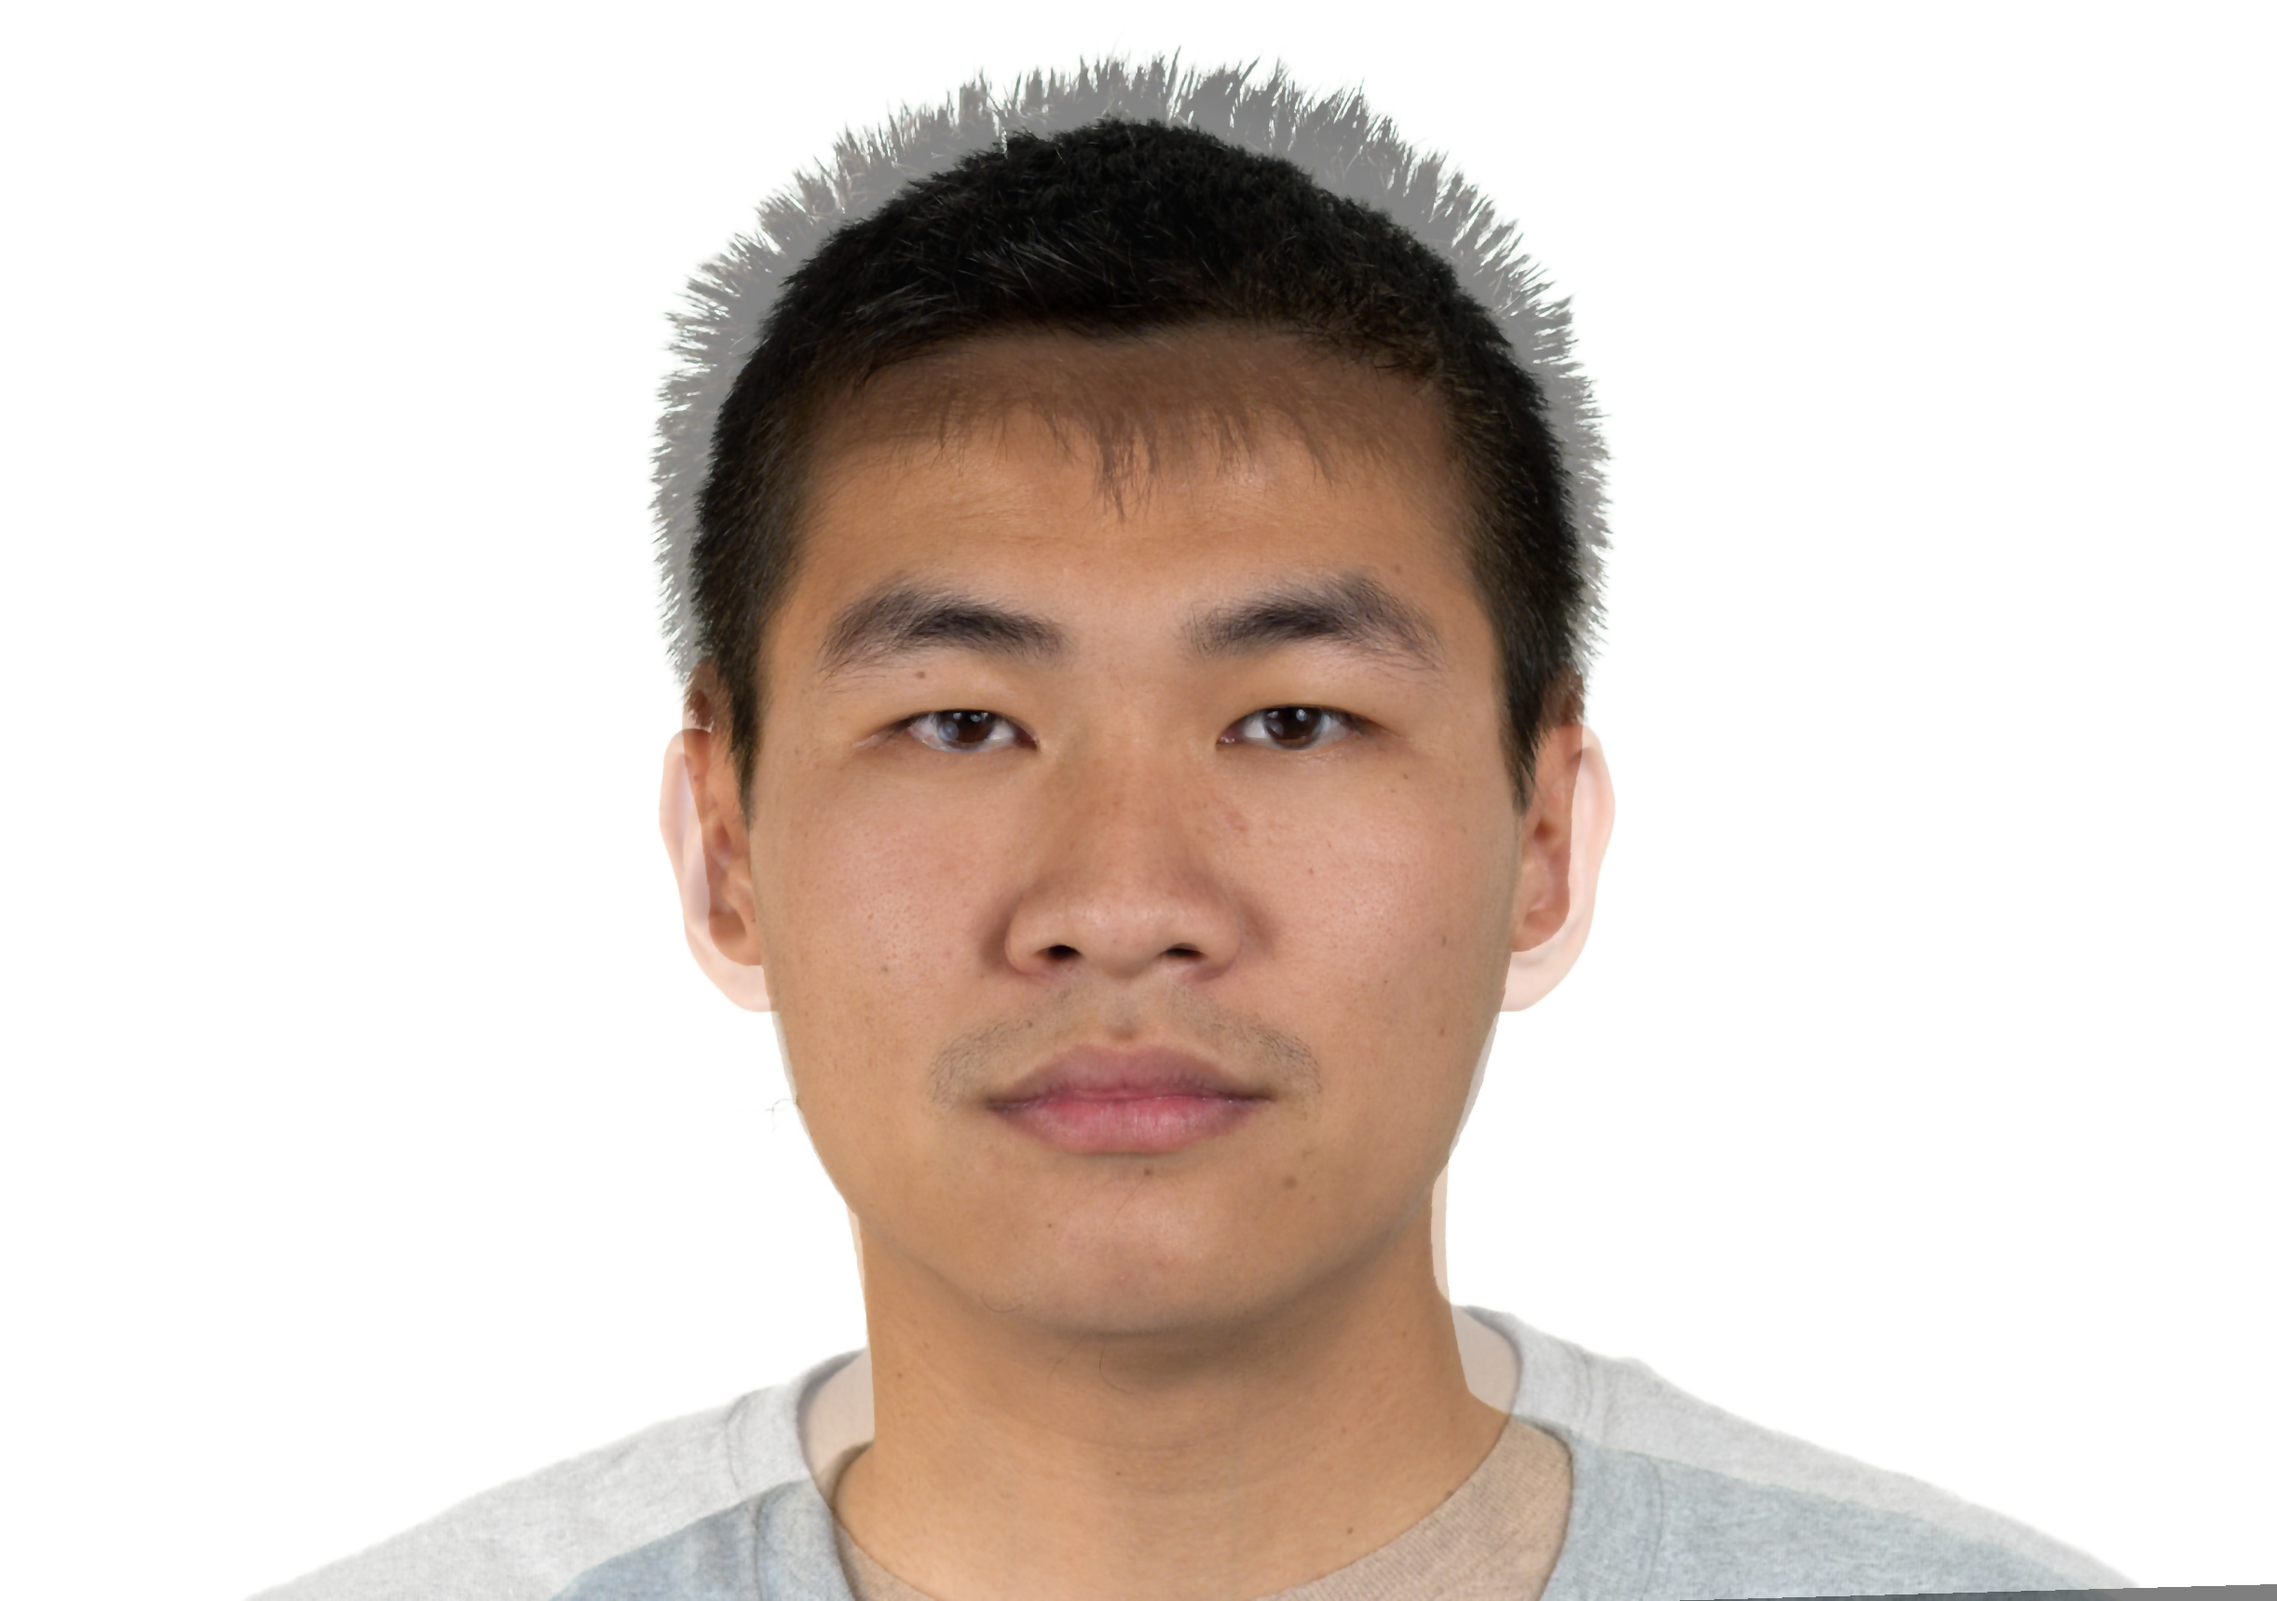
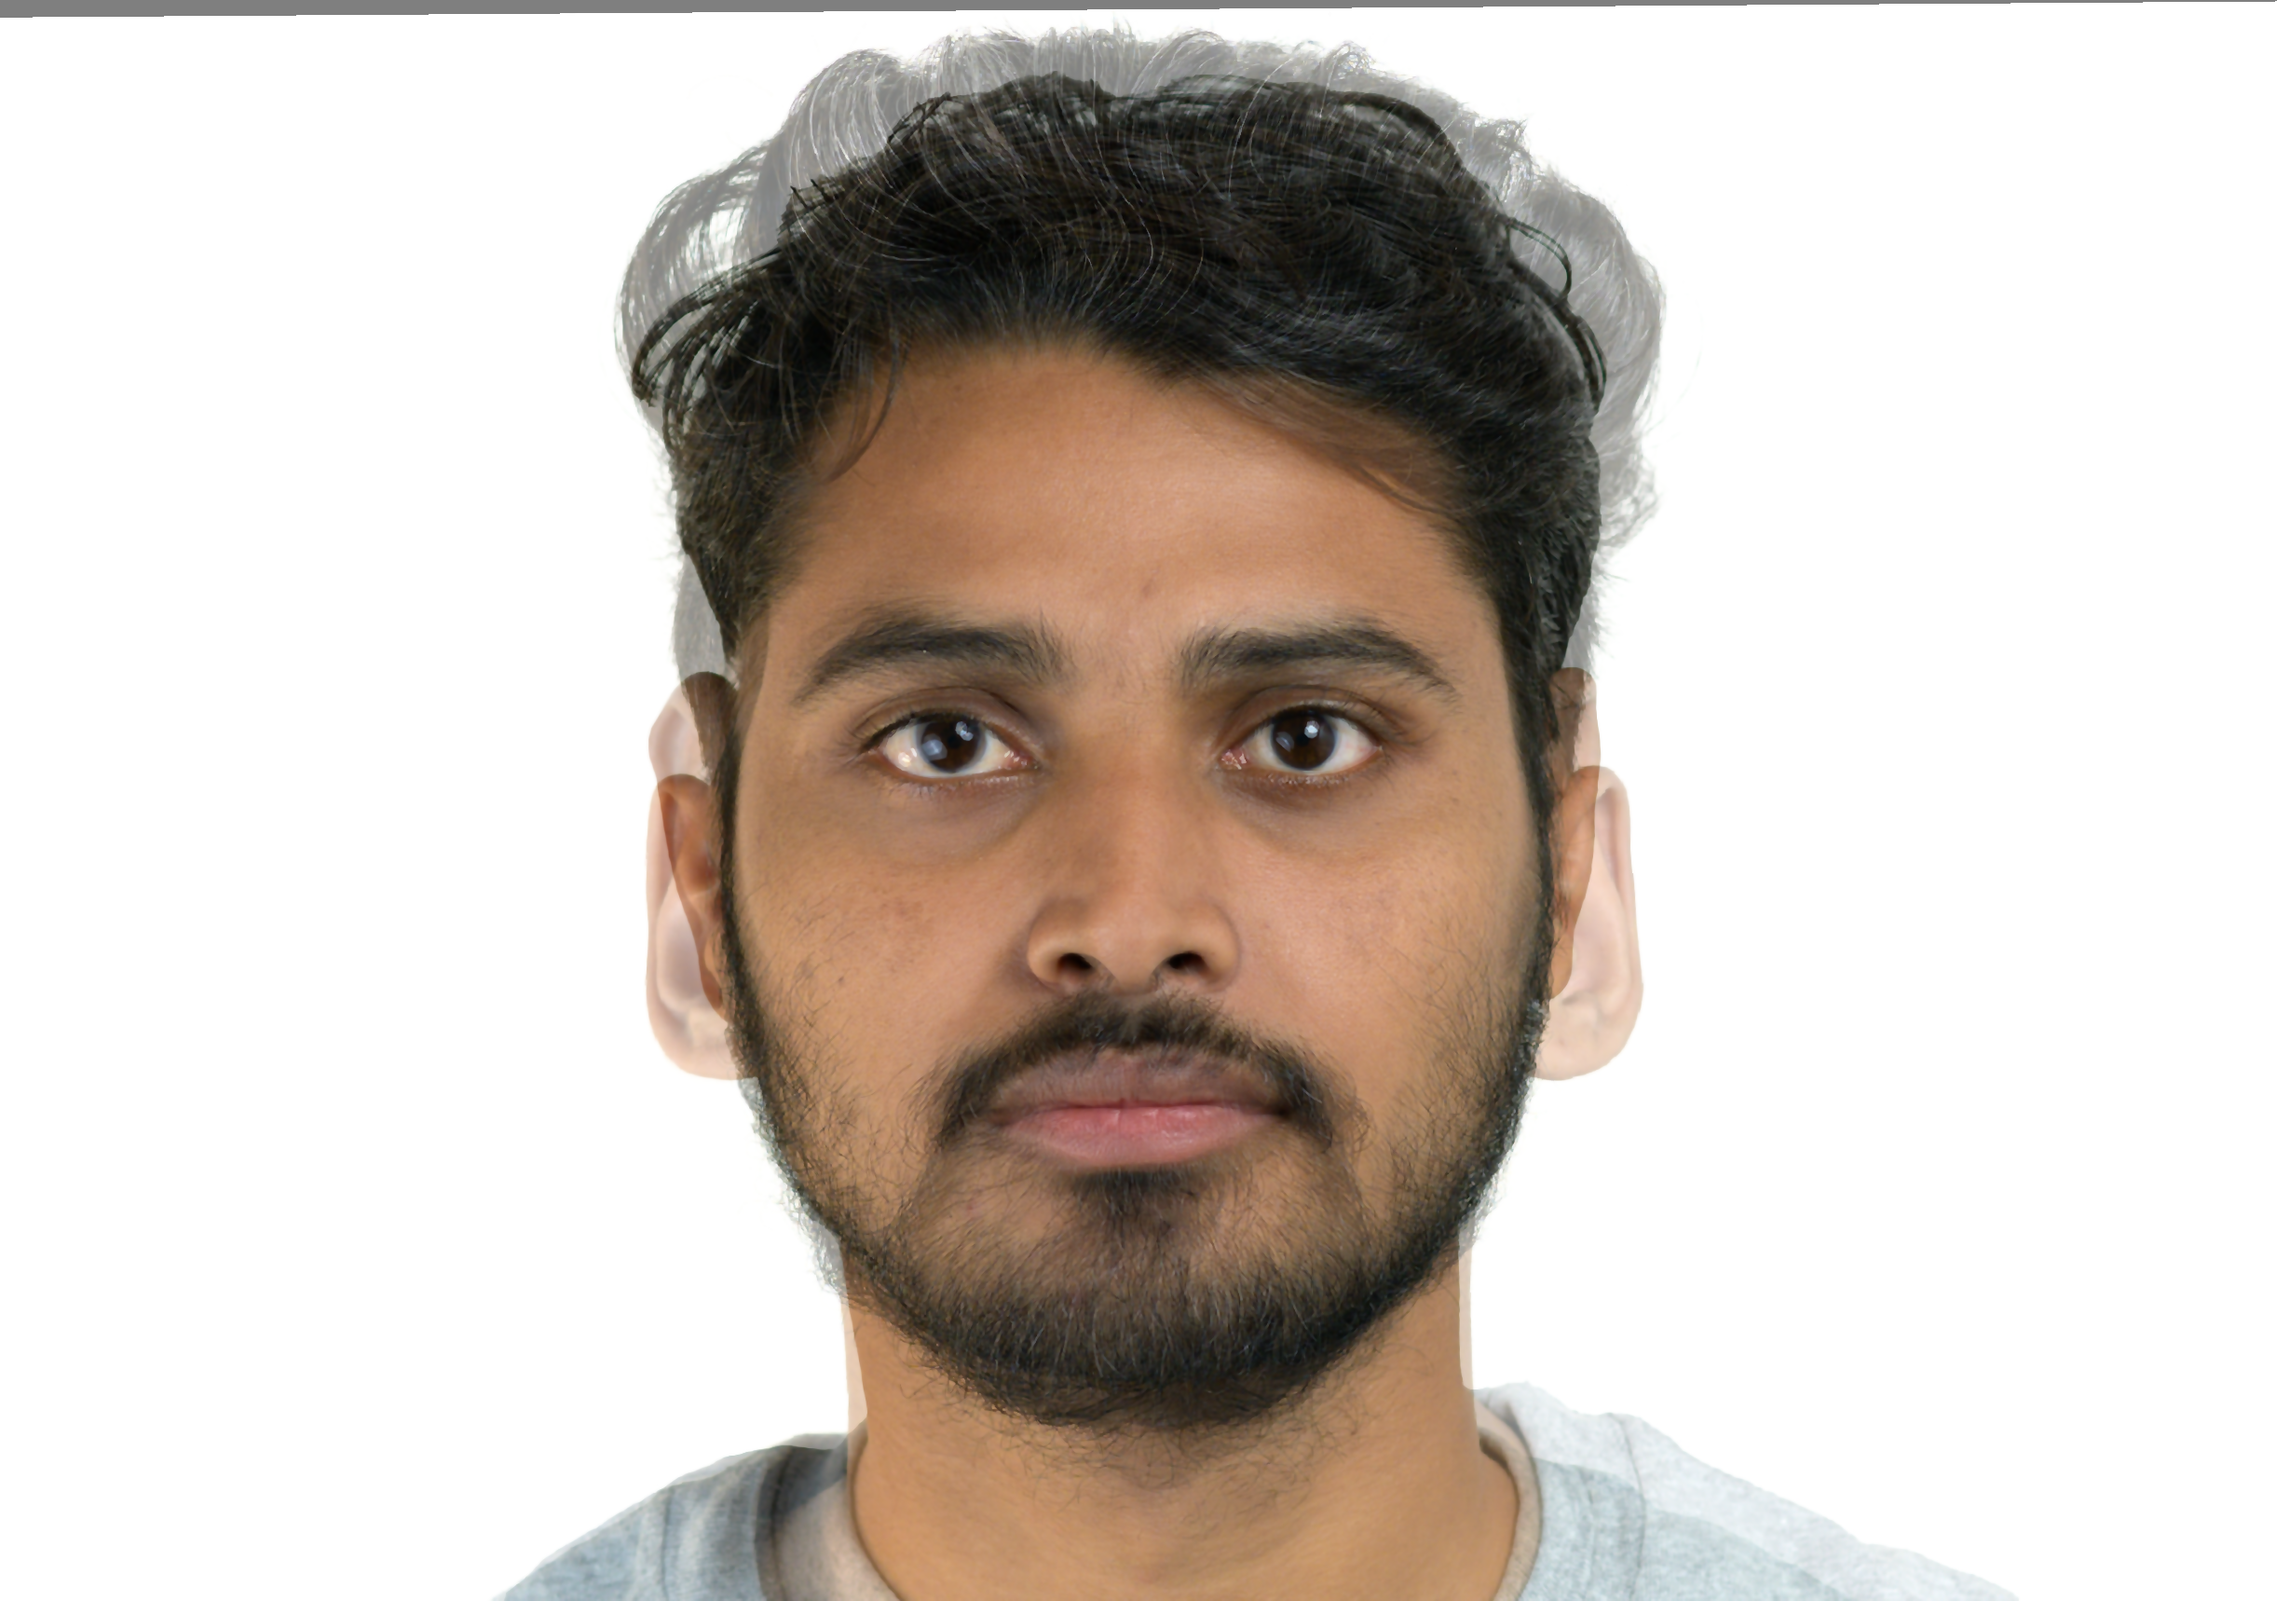
Update

Changed region(s): [[0.0, 0.0, 1.0, 1.0]]

diff --git a/FaceMorphing/FaceMorph.py b/FaceMorphing/FaceMorph.py
@@ -6,8 +6,8 @@ from scipy.spatial import Delaunay
 
 ShapePredictor = "shape_predictor_68_face_landmarks.dat"
 
-imagePathA = "/Users/eldarakhundzada/Desktop/8. Semester/BachelorThesis/DeepFace/Persons/asian/Man/IM101.png"
-imagePathB = "/Users/eldarakhundzada/Desktop/8. Semester/BachelorThesis/DeepFace/Persons/asian/Man/IM578.png"
+imagePathA = "/Users/eldarakhundzada/Desktop/8. Semester/BachelorThesis/DeepFace/Persons/indian/Man/IM181.png"
+imagePathB = "/Users/eldarakhundzada/Desktop/8. Semester/BachelorThesis/DeepFace/Persons/indian/Man/IM190.png"
 predictor = dlib.shape_predictor(ShapePredictor)
 detector = dlib.get_frontal_face_detector()
 
@@ -79,7 +79,7 @@ def averageLandmark(landmarks1, landmarks2, alpha=0.5):
     landmarks1 = numpy.array(landmarks1).astype(float)
     landmarks2 = numpy.array(landmarks2).astype(float)
     
-    landmarksMorphed = (1 - alpha) * landmarks1 + alpha * landmarks2
+    landmarksMorphed = alpha * landmarks1 + alpha * landmarks2
     
     for i in range(len(landmarksMorphed)):
         x = int(landmarksMorphed[i, 0])
@@ -95,6 +95,7 @@ def delaunayTriangle(landmarksMorphed):
 
 def drawDelaunay(img, landmarks, simplices):
     img_copy = img.copy()
+    landmarks = numpy.array(landmarks)
     
     for s in simplices:
         pt1 = tuple(landmarks[s[0]].astype(int))
@@ -260,9 +261,6 @@ def addExtraLandmarks(landmarks):
     return allLandmarks
 
 def addBorderPoints(landmarks, imgShape):
-    """
-    Fügt Randpunkte am Bildrand hinzu
-    """
     h, w = imgShape[:2]
     landmarks = numpy.array(landmarks)
     
@@ -283,6 +281,8 @@ imageB = cv2.imread(imagePathB)
 landmarksA = getLandMarks(imageA)
 landmarksB = getLandMarks(imageB)
 
+
+#Affine Transformation
 M = transformationFromPoints(landmarksA, landmarksB)
 imageBaligned = warpIm(imageB, M, imageA.shape)
 alignedLandmarksB = getLandMarks(imageBaligned)
@@ -320,10 +320,19 @@ print("-"*30)
 # Morphed Landmarks mit ALLEN Punkten
 landmarksMorphed = averageLandmark(landmarksAFull, landmarksBFull)
 tri = delaunayTriangle(landmarksMorphed) #3.2.3
-blank_image = numpy.zeros(imageA.shape, dtype=numpy.uint8)
-debugImage = drawDelaunay(blank_image, landmarksMorphed, tri.simplices)
+blankImage = numpy.zeros(imageA.shape, dtype=numpy.uint8)
+debugImage = drawDelaunay(blankImage, landmarksMorphed, tri.simplices)
 cv2.imwrite("DelaunayTrian.png", debugImage)
 print(f"Anzahl Dreiecke: {len(tri.simplices)}")
+
+# Delaunay Triangulation:
+debugImageA = imageA.copy()
+debugImageA = drawDelaunay(debugImageA, landmarksAFull, tri.simplices)
+cv2.imwrite("DelaunayTrian_A.png", debugImageA)
+
+debugImageB = imageBaligned.copy()
+debugImageB = drawDelaunay(debugImageB, landmarksBFull, tri.simplices)
+cv2.imwrite("DelaunayTrian_B.png", debugImageB)
 
 # Morphing mit ALLEN Landmarks 3.2.4
 imgMorph = numpy.zeros(imageA.shape, dtype=imageA.dtype)
@@ -384,4 +393,4 @@ center = (r[0] + r[2] // 2, r[1] + r[3] // 2)
 
 output = cv2.seamlessClone(srcBlended, dst, mask_eroded, center, cv2.NORMAL_CLONE)
 
-cv2.imwrite("/Users/eldarakhundzada/Desktop/8. Semester/BachelorThesis/FaceMorphing/Test3.png", output)
+cv2.imwrite("/Users/eldarakhundzada/Desktop/8. Semester/BachelorThesis/DeepFace/Persons/indian/Man/190/IM190-low.png", output)

diff --git a/DeepFace/DeepFace.py b/DeepFace/DeepFace.py
@@ -4,32 +4,27 @@ import pandas as pd
 import os
 
 
-img1 = "/Users/eldarakhundzada/Desktop/8. Semester/BachelorThesis/DeepFace/Persons/asian/Man/IM101.png"
-img2 = "/Users/eldarakhundzada/Desktop/8. Semester/BachelorThesis/DeepFace/Persons/asian/Man/101/IM101-mid.png"
+img1 = "/Users/eldarakhundzada/Desktop/8. Semester/BachelorThesis/DeepFace/Persons/indian/Man/IM190.png"
+img2 = "/Users/eldarakhundzada/Desktop/8. Semester/BachelorThesis/DeepFace/Persons/indian/Man/IM181.png"
 
-imgMorph = "/Users/eldarakhundzada/Desktop/8. Semester/BachelorThesis/FaceMorphing/Test3.png"
+imgMorph = "/Users/eldarakhundzada/Desktop/8. Semester/BachelorThesis/DeepFace/Persons/indian/Man/190/IM190-low.png"
+#imgMorph = "/Users/eldarakhundzada/Desktop/8. Semester/BachelorThesis/FaceMorphing/TestE.png"
 
 folderPath = "/Users/eldarakhundzada/Desktop/8. Semester/BachelorThesis/DeepFace/Persons/latino hispanic"
 
-compareImage = "/Users/eldarakhundzada/Desktop/8. Semester/BachelorThesis/DeepFace/Persons/latino hispanic/Woman/IM777.png"
-pathToCompare = "/Users/eldarakhundzada/Desktop/8. Semester/BachelorThesis/DeepFace/Persons/latino hispanic/Woman"
+compareImage = "/Users/eldarakhundzada/Desktop/8. Semester/BachelorThesis/DeepFace/Persons/black/Man/IM471.png"
+pathToCompare = "/Users/eldarakhundzada/Desktop/8. Semester/BachelorThesis/DeepFace/Persons/black/Man"
 
 def passControl(img1, img2):
     result = DeepFace.verify(img1, img2, model_name = "Facenet512")
-    obj = DeepFace.analyze(img1, actions=['age','gender', 'race'])[0]
-
-    print("Geschlecht: " +  obj['dominant_gender'])
-    age = int(obj['age'])
-    print("Alter: " +  str(age))
-    print("Ethnizität: " + obj['dominant_race'])
     verified = bool(result['verified'])
     distance = round(result['distance'], 4)
     threshold = float(result['threshold'])
+    print("Ähnlichkeit: " + result['similarity_metric'])
 
     print("Verified: " + str(verified))
     print("Distanz: " + str(distance))
-    print("Treshold: " + str(threshold))
-    print("Ähnlichkeit: " + result['similarity_metric'])
+    print("Threshold: " + str(threshold))
 
 def classifyPerson(folderPath):
     data = []
@@ -76,9 +71,9 @@ def comparePersons(compareImage, pathToCompare):
         })   
     
     df = pd.DataFrame(data)
-    df.to_excel("/Users/eldarakhundzada/Desktop/8. Semester/BachelorThesis/DeepFace/Persons/latino hispanic/Woman/vergleiche777.xlsx", index=False)
+    df.to_excel("/Users/eldarakhundzada/Desktop/8. Semester/BachelorThesis/DeepFace/Persons/black/Man/vergleiche471.xlsx", index=False)
     print("Fertig")
 
 #comparePersons(compareImage, pathToCompare)
-passControl(img1, img2)
+passControl(img1, imgMorph)
 #classifyPerson(folderPath)

diff --git a/FaceMorphing/Test.py b/FaceMorphing/Test.py
@@ -5,8 +5,8 @@ import numpy
 from scipy.spatial import Delaunay
 
 ShapePredictor = "shape_predictor_68_face_landmarks.dat"
-imagePathA = "/Users/eldarakhundzada/Desktop/8. Semester/BachelorThesis/DeepFace/Persons/white/Woman/IM880.png"
-imagePathB = "/Users/eldarakhundzada/Desktop/8. Semester/BachelorThesis/DeepFace/Persons/asian/Man/IM101.png"
+imagePathA = "/Users/eldarakhundzada/Desktop/8. Semester/BachelorThesis/DeepFace/Persons/black/Woman/IM454.png"
+imagePathB = "/Users/eldarakhundzada/Desktop/8. Semester/BachelorThesis/DeepFace/Persons/black/Woman/IM17.png"
 predictor = dlib.shape_predictor(ShapePredictor)
 detector = dlib.get_frontal_face_detector()
 
